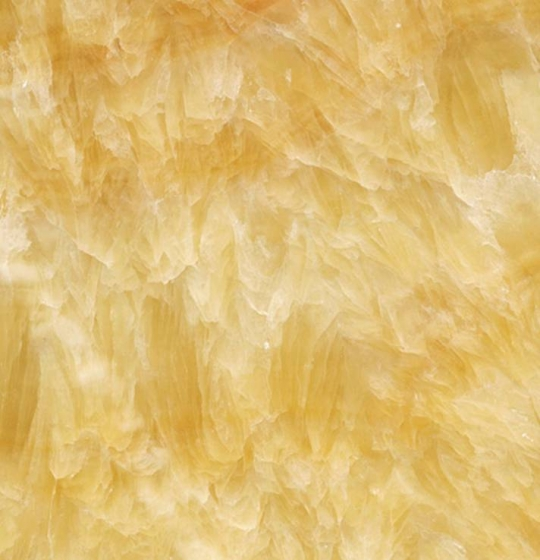
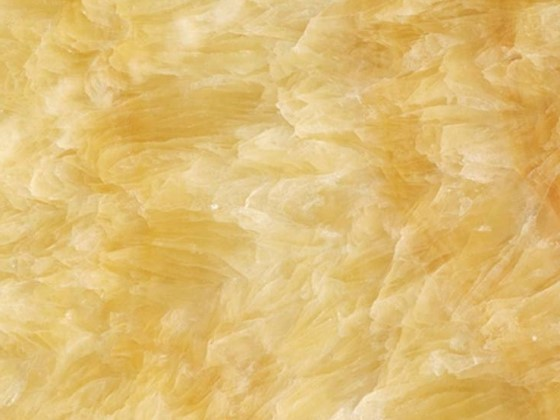
marble section complete

diff --git a/marble.html b/marble.html
@@ -99,7 +99,7 @@
 			<div class="row">
 				<div class="col-lg-6">
 					<div class="case-img">
-						<img src="images/products/Marble-temp.jpg" alt="" class="img-fluid">
+						<img src="images/marble/arabscato.jpeg" alt="" class="img-fluid">
 					</div>
 				</div>
 
@@ -183,7 +183,7 @@
             <div class="col-lg-4 col-md-6">
                 <div class="portflio-item position-relative mb-4">
                     <a href="#">
-                        <img src="images/semiprecious/2.jpg" alt="" class="img-fluid w-100">
+                        <img src="images/marble/black dune.jpeg" alt="" class="img-fluid w-100">
                         <div class="overlay-item"><i class="ti-layers"></i></div>
                     </a>
                 </div>
@@ -192,7 +192,7 @@
             <div class="col-lg-4 col-md-6">
                 <div class="portflio-item position-relative mb-4">
                     <a href="#">
-                        <img src="images/semiprecious/3.jpg" alt="" class="img-fluid w-100">
+                        <img src="images/marble/brown.jpeg" alt="" class="img-fluid w-100">
                         <div class="overlay-item">
                             <i class="ti-layers"></i>
                         </div>
@@ -204,7 +204,7 @@
             <div class="col-lg-4 col-md-6">
                 <div class="portflio-item position-relative mb-4">
                     <a href="#">
-                        <img src="images/semiprecious/4.jpg" alt="" class="img-fluid w-100">
+                        <img src="images/marble/fantancy.jpeg" alt="" class="img-fluid w-100">
 
                         <div class="overlay-item">
                             <i class="ti-layers"></i>
@@ -217,7 +217,7 @@
             <div class="col-lg-4 col-md-6">
                 <div class="portflio-item position-relative mb-4">
                     <a href="#">
-                        <img src="images/semiprecious/5.jpg" alt="" class="img-fluid w-100">
+                        <img src="images/marble/green.jpg" alt="" class="img-fluid w-100">
 
                         <div class="overlay-item">
                             <i class="ti-layers"></i>
@@ -230,7 +230,7 @@
             <div class="col-lg-4 col-md-6">
                 <div class="portflio-item position-relative  mb-4">
                     <a href="#">
-                        <img src="images/semiprecious/6.jpg" alt="" class="img-fluid w-100">
+                        <img src="images/marble/macuba.jpg" alt="" class="img-fluid w-100">
 
                         <div class="overlay-item">
                             <i class="ti-layers"></i>
@@ -243,7 +243,7 @@
             <div class="col-lg-4 col-md-6">
                 <div class="portflio-item position-relative mb-4 ">
                     <a href="#">
-                        <img src="images/semiprecious/12.jpg" alt="" class="img-fluid w-100">
+                        <img src="images/marble/marble 04.jpeg" alt="" class="img-fluid w-100">
 
                         <div class="overlay-item text-center">
                             <i class="ti-layers"></i>
@@ -256,7 +256,7 @@
             <div class="col-lg-4 col-md-6">
                 <div class="portflio-item position-relative mb-4">
                     <a href="#">
-                        <img src="images/semiprecious/10.jpg" alt="" class="img-fluid w-100">
+                        <img src="images/marble/onyx.jpg" alt="" class="img-fluid w-100">
 
                         <div class="overlay-item">
                             <i class="ti-layers"></i>
@@ -269,7 +269,7 @@
             <div class="col-lg-4 col-md-6">
                 <div class="portflio-item position-relative  mb-4">
                     <a href="#">
-                        <img src="images/semiprecious/13.jpg" alt="" class="img-fluid w-100">
+                        <img src="images/marble/travertine.jpeg" alt="" class="img-fluid w-100">
 
                         <div class="overlay-item">
                             <i class="ti-layers"></i>
@@ -282,7 +282,7 @@
             <div class="col-lg-4 col-md-6">
                 <div class="portflio-item position-relative mb-4 ">
                     <a href="#">
-                        <img src="images/semiprecious/11.jpg" alt="" class="img-fluid w-100">
+                        <img src="images/marble/yellow.jpeg" alt="" class="img-fluid w-100">
 
                         <div class="overlay-item text-center">
                             <i class="ti-layers"></i>
